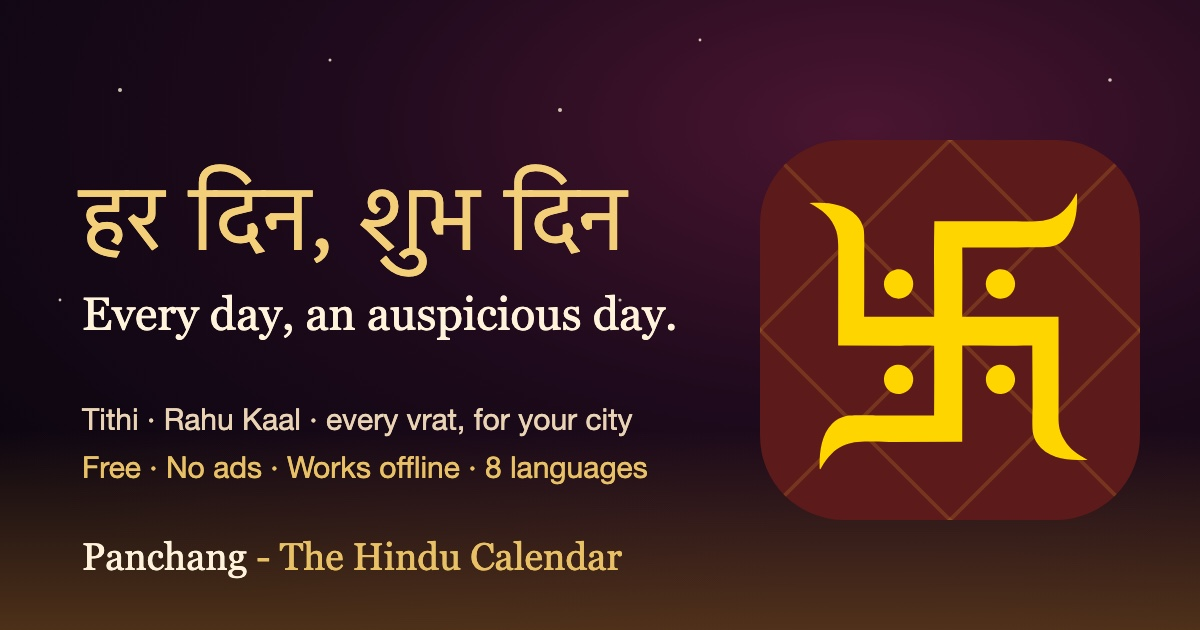
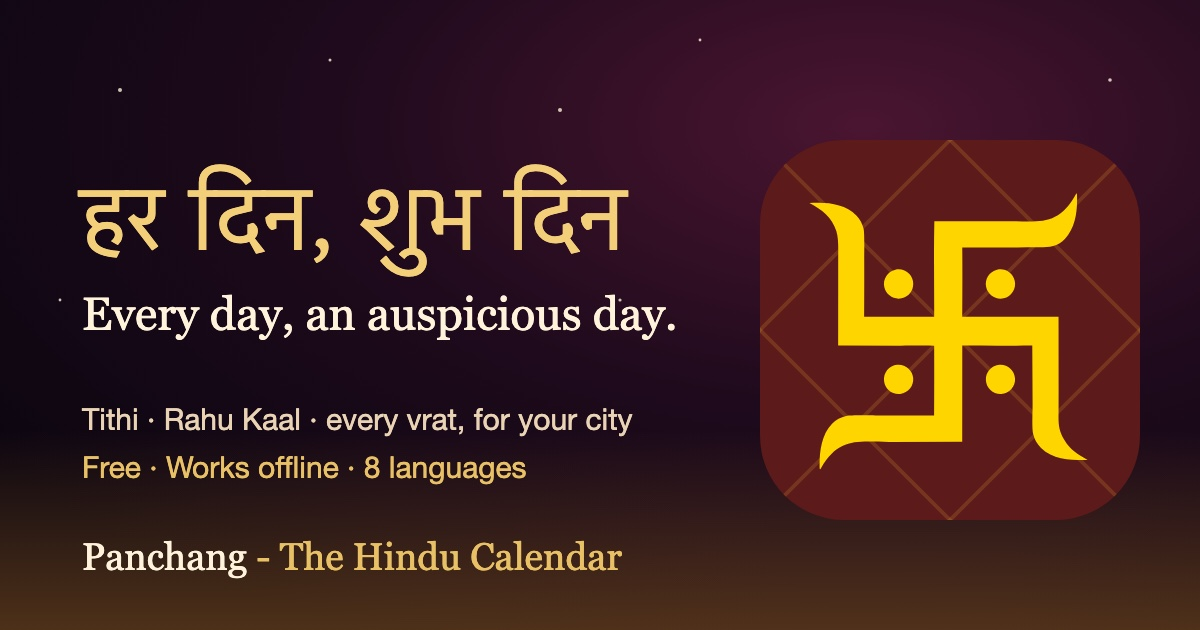
Ads disclosure: privacy policy Advertising section, light-ads copy, preview image

Changed region(s): [[0.1233, 0.7238, 0.555, 0.7841]]

diff --git a/index.html b/index.html
@@ -5,17 +5,17 @@
 <link rel="icon" href="assets/icon.svg" type="image/svg+xml">
 <title>Panchang - The Hindu Calendar</title>
 <meta name="claude:viewport-fit-sides" content="cover">
-<meta name="description" content="Tithi, nakshatra, Rahu Kaal and every vrat, worked out for your city each morning. Free, no ads, works offline, in 8 Indian languages.">
+<meta name="description" content="Tithi, nakshatra, Rahu Kaal and every vrat, worked out for your city each morning. Free, works offline, in 8 Indian languages.">
 <meta property="og:type" content="website">
 <meta property="og:title" content="Panchang - The Hindu Calendar">
-<meta property="og:description" content="हर दिन, शुभ दिन · Every day, an auspicious day. Tithi, Rahu Kaal and every vrat for your city. Free, no ads, works offline.">
+<meta property="og:description" content="हर दिन, शुभ दिन · Every day, an auspicious day. Tithi, Rahu Kaal and every vrat for your city. Free and works offline.">
 <meta property="og:url" content="https://hinducalendar.github.io">
 <meta property="og:image" content="https://hinducalendar.github.io/assets/og.jpg">
 <meta property="og:image:width" content="1200">
 <meta property="og:image:height" content="630">
 <meta name="twitter:card" content="summary_large_image">
 <meta name="twitter:title" content="Panchang - The Hindu Calendar">
-<meta name="twitter:description" content="Tithi, Rahu Kaal and every vrat for your city. Free, no ads, works offline.">
+<meta name="twitter:description" content="Tithi, Rahu Kaal and every vrat for your city. Free and works offline.">
 <meta name="twitter:image" content="https://hinducalendar.github.io/assets/og.jpg">
 <meta name="theme-color" content="#160A12">
 <link rel="preconnect" href="https://fonts.googleapis.com">
@@ -369,7 +369,7 @@ footer a { color: #F3E3CC; text-decoration-color: rgba(232,192,102,.5); text-und
           </a>
           <span class="soon"><svg viewBox="0 0 24 24" fill="none" stroke="currentColor" stroke-width="2" aria-hidden="true"><rect x="6" y="2.5" width="12" height="19" rx="2.5"/><path d="M10.5 18.5h3"/></svg><span data-i="soon">iPhone app coming soon</span></span>
         </div>
-        <p class="fine" data-i="fine">Free · No ads · No sign-up</p>
+        <p class="fine" data-i="fine">Free · No sign-up · Light ads you can remove</p>
       </div>
 
       <aside class="live" id="live" aria-labelledby="live-label">
@@ -467,7 +467,7 @@ footer a { color: #F3E3CC; text-decoration-color: rgba(232,192,102,.5); text-und
       <div class="trust">
       <ul>
         <li><span class="ic" aria-hidden="true"><svg viewBox="0 0 24 24" fill="none" stroke="currentColor" stroke-width="1.8" stroke-linecap="round" stroke-linejoin="round"><rect x="3.5" y="8" width="17" height="4.5" rx="1"/><path d="M5 12.5V20h14v-7.5M12 8v12"/><path d="M12 8C10.5 5 7 4.5 7 6.6 7 8 9.5 8 12 8zm0 0c1.5-3 5-3.5 5-1.4C17 8 14.5 8 12 8z"/></svg></span><span data-i="tr1">Free</span></li>
-        <li><span class="ic" aria-hidden="true"><svg viewBox="0 0 24 24" fill="none" stroke="currentColor" stroke-width="1.8" stroke-linecap="round" stroke-linejoin="round"><path d="M4 10v4h3l6 4V6l-6 4H4z"/><path d="M16.5 9.5a3.5 3.5 0 0 1 0 5"/><path d="M3 3l18 18"/></svg></span><span data-i="tr2">No ads</span></li>
+        <li><span class="ic" aria-hidden="true"><svg viewBox="0 0 24 24" fill="none" stroke="currentColor" stroke-width="1.8" stroke-linecap="round" stroke-linejoin="round"><path d="M4 10v4h3l6 4V6l-6 4H4z"/><path d="M16.5 9.5a3.5 3.5 0 0 1 0 5"/></svg></span><span data-i="tr2">Light, family-safe ads</span></li>
         <li><span class="ic" aria-hidden="true"><svg viewBox="0 0 24 24" fill="none" stroke="currentColor" stroke-width="1.8" stroke-linecap="round" stroke-linejoin="round"><circle cx="12" cy="8" r="3.5"/><path d="M5 20c.8-3.6 3.6-5.5 7-5.5s6.2 1.9 7 5.5"/><path d="M3 3l18 18"/></svg></span><span data-i="tr3">No sign-up</span></li>
         <li><span class="ic" aria-hidden="true"><svg viewBox="0 0 24 24" fill="none" stroke="currentColor" stroke-width="1.8" stroke-linecap="round" stroke-linejoin="round"><path d="M2.5 8.8a15 15 0 0 1 3.8-2.5M10.2 5.1A15 15 0 0 1 21.5 8.8M5.3 12.2a10 10 0 0 1 3.4-2M15.7 10.4A10 10 0 0 1 18.7 12.2M8.6 15.6a5 5 0 0 1 6.8 0"/><circle cx="12" cy="19" r=".8" fill="currentColor"/><path d="M3 3l18 18"/></svg></span><span data-i="tr4">Works offline</span></li>
         <li><span class="ic" aria-hidden="true"><svg viewBox="0 0 24 24" fill="none" stroke="currentColor" stroke-width="1.8" stroke-linecap="round" stroke-linejoin="round"><rect x="6.5" y="2.5" width="11" height="19" rx="2.5"/><path d="M10.5 18.5h3"/><path d="M9.5 10.5l2 2 3.5-3.5"/></svg></span><span data-i="tr5">Calculated on your phone</span></li>
@@ -576,7 +576,7 @@ astronomy-engine/esm/astronomy.js:
       brand: 'Panchang', brandOther: 'The Hindu Calendar', install: 'Install',
       h1: 'Every day, an auspicious day.', h1Other: 'हर दिन, शुभ दिन',
       lead: 'Tithi, nakshatra, Rahu Kaal and every vrat, worked out for your city each morning, right on your phone.',
-      playT1: 'Get it on', soon: 'iPhone app coming soon', fine: 'Free · No ads · No sign-up',
+      playT1: 'Get it on', soon: 'iPhone app coming soon', fine: 'Free · No sign-up · Light ads you can remove',
       liveLabel: "Today's panchang for", sunrise: 'Sunrise', sunset: 'Sunset', rahu: 'Rahu Kaal', yama: 'Yamaganda', gulika: 'Gulika', goodChog: 'Good choghadiya',
       liveNote: 'Calculated in your browser, the same way the app does it on your phone.',
       monthNak: '{month} month · {nak} nakshatra',
@@ -598,7 +598,7 @@ astronomy-engine/esm/astronomy.js:
       gKicker: 'Also inside', gTitle: 'A calendar for the month, and a muhurat finder',
       g1Title: 'Every tithi of the month', g1Body: 'Each day shows its tithi. Vrats, Purnima and Amavasya are marked, and any date opens its full panchang.',
       g2Title: 'Shubh muhurat, by occasion', g2Body: 'Good dates for a wedding, griha pravesh, a new vehicle or property, naming and mundan, with the reason for each.',
-      tr1: 'Free', tr2: 'No ads', tr3: 'No sign-up', tr4: 'Works offline', tr5: 'Calculated on your phone', tr6: '8 languages',
+      tr1: 'Free', tr2: 'Light, family-safe ads', tr3: 'No sign-up', tr4: 'Works offline', tr5: 'Calculated on your phone', tr6: '8 languages',
       fKicker: 'Coming up', fTitle: 'The next vrats and festivals in {city}', fSub: 'Dates calculated for your city, the way the app shows them.',
       today: 'Today', tomorrow: 'Tomorrow', inDays: 'in {n} days',
       cTitle: 'Light the lamp. Begin the day.', cBody: 'Panchang is free on Android. The iPhone app is coming soon.',
@@ -614,7 +614,7 @@ astronomy-engine/esm/astronomy.js:
       brand: 'पंचांग', brandOther: 'हिंदू कैलेंडर', install: 'डाउनलोड',
       h1: 'हर दिन, शुभ दिन', h1Other: 'Every day, an auspicious day.',
       lead: 'तिथि, नक्षत्र, राहु काल और हर व्रत, आपके शहर के हिसाब से, रोज़ सुबह आपके फ़ोन पर।',
-      playT1: 'इसे पाएं', soon: 'iPhone ऐप जल्द आ रहा है', fine: 'मुफ़्त · कोई विज्ञापन नहीं · कोई साइन-अप नहीं',
+      playT1: 'इसे पाएं', soon: 'iPhone ऐप जल्द आ रहा है', fine: 'मुफ़्त · कोई साइन-अप नहीं · हल्के विज्ञापन, जिन्हें हटा सकते हैं',
       liveLabel: 'आज का पंचांग', sunrise: 'सूर्योदय', sunset: 'सूर्यास्त', rahu: 'राहु काल', yama: 'यमगंड', gulika: 'गुलिक', goodChog: 'शुभ चौघड़िया',
       liveNote: 'आपके ब्राउज़र में गणना की गई, ठीक वैसे ही जैसे ऐप आपके फ़ोन पर करता है।',
       monthNak: '{month} मास · {nak} नक्षत्र',
@@ -636,7 +636,7 @@ astronomy-engine/esm/astronomy.js:
       gKicker: 'और भी', gTitle: 'महीने का कैलेंडर और मुहूर्त खोजक',
       g1Title: 'महीने की हर तिथि', g1Body: 'हर दिन की तिथि लिखी है। व्रत, पूर्णिमा और अमावस्या पर निशान है, और किसी भी तारीख़ का पूरा पंचांग खुल जाता है।',
       g2Title: 'हर काम का शुभ मुहूर्त', g2Body: 'विवाह, गृह प्रवेश, नया वाहन या संपत्ति, नामकरण और मुंडन के लिए शुभ दिन, हर एक के कारण के साथ।',
-      tr1: 'मुफ़्त', tr2: 'कोई विज्ञापन नहीं', tr3: 'कोई साइन-अप नहीं', tr4: 'बिना इंटरनेट', tr5: 'गणना आपके फ़ोन पर', tr6: '8 भाषाएँ',
+      tr1: 'मुफ़्त', tr2: 'हल्के, पारिवारिक विज्ञापन', tr3: 'कोई साइन-अप नहीं', tr4: 'बिना इंटरनेट', tr5: 'गणना आपके फ़ोन पर', tr6: '8 भाषाएँ',
       fKicker: 'आगे आ रहे हैं', fTitle: '{city} में आने वाले व्रत और त्योहार', fSub: 'तारीख़ें आपके शहर के हिसाब से, जैसे ऐप में दिखती हैं।',
       today: 'आज', tomorrow: 'कल', inDays: '{n} दिन बाद',
       cTitle: 'दीप जलाइए, दिन शुरू कीजिए।', cBody: 'पंचांग Android पर मुफ़्त है। iPhone ऐप जल्द आ रहा है।',

diff --git a/privacy.html b/privacy.html
@@ -21,10 +21,10 @@
 <body>
 <main>
   <h1>Privacy Policy</h1>
-  <p class="meta">Panchang - The Hindu Calendar (Android app) · Last updated: 19 November 2026</p>
+  <p class="meta">Panchang - The Hindu Calendar (Android app) · Last updated: 23 November 2026</p>
   <div class="rule"></div>
 
-  <p>Panchang - The Hindu Calendar ("the app") shows the Hindu panchang — tithi, nakshatra, Rahu Kaal, muhurats, vrats and festivals — for the city you choose. All of it is calculated on your phone. There are no accounts and no sign-in, the app contains no advertising or analytics, and we do not run any servers that receive your data.</p>
+  <p>Panchang - The Hindu Calendar ("the app") shows the Hindu panchang — tithi, nakshatra, Rahu Kaal, muhurats, vrats and festivals — for the city you choose. All of it is calculated on your phone. There are no accounts and no sign-in, the app contains no analytics, and we do not run any servers that receive your data. The free version shows a few ads from Google AdMob, described below; you can remove them with a one-time purchase.</p>
 
   <h2>What stays on your phone</h2>
   <p>The app saves the following only on your device, so it can remember your choices. None of it is sent to us or anyone else:</p>
@@ -42,6 +42,17 @@
   <h2>Reminders</h2>
   <p>Reminders for the daily panchang, vrats, parana times and festivals are scheduled on your phone by Android. They do not use a push-notification server and no information leaves your device. You can turn them off in the app's Reminders screen or in your phone's notification settings.</p>
 
+  <h2>Advertising</h2>
+  <p>The free version shows a small number of ads, provided by Google AdMob. They appear as clearly labelled cards at the bottom of some screens and between months in the festival list. To show and measure these ads, Google's software in the app collects and sends to Google:</p>
+  <ul>
+    <li>Your device's advertising ID (a resettable ID you control in Android settings)</li>
+    <li>Device and app information such as phone model, Android version, language and app version</li>
+    <li>Approximate location derived from your IP address (not GPS)</li>
+    <li>How you interact with the ads, such as views and taps</li>
+  </ul>
+  <p>Google uses this to choose and measure ads, prevent fraud and limit how often you see the same ad, under <a href="https://policies.google.com/technologies/partner-sites">Google's privacy policy</a>. We do not receive any of it except anonymous totals such as how many ads were shown. Ads are limited to content suitable for a general audience (rating G).</p>
+  <p>Your choices: in regions where the law requires it, the app asks for your consent before showing personalised ads. On Android you can reset or delete your advertising ID, or opt out of ad personalisation, in Settings → Google → Ads (or Settings → Privacy → Ads). Buying "Remove ads" in the app turns ads off; Google's ad software then no longer loads.</p>
+
   <h2>Crash reports</h2>
   <p>If the app crashes, Google Play may send us an anonymous crash report (Android vitals) if you have allowed your device to share usage and diagnostics data with Google. These reports contain technical details about the crash and your device model, not your personal information.</p>
 
@@ -50,6 +61,7 @@
     <tr><th>Data</th><th>Who receives it</th><th>Purpose</th></tr>
     <tr><td>Language, city, display and reminder settings, rashi</td><td>Nobody (stays on your phone)</td><td>Remembering your choices</td></tr>
     <tr><td>Approximate location (only if you tap "Find my location")</td><td>Nobody (used once on your phone, not saved)</td><td>Choosing the nearest city</td></tr>
+    <tr><td>Advertising ID, device and app info, approximate location from IP, ad interactions (free version only)</td><td>Google (AdMob)</td><td>Showing and measuring ads, preventing fraud</td></tr>
     <tr><td>Crash diagnostics</td><td>Google Play (if you allow)</td><td>Fixing bugs</td></tr>
   </table>
 
@@ -57,7 +69,7 @@
   <p>The app is intended for a general audience and is not directed at children under 13. We do not knowingly collect personal information from children.</p>
 
   <h2>Changes</h2>
-  <p>If this policy changes — for example, if the app ever adds advertising or paid features — we will update this page and the date above before the change reaches the app.</p>
+  <p>If this policy changes, we will update this page and the date above before the change reaches the app.</p>
 
   <h2>Contact</h2>
   <p>Questions or concerns: <a href="mailto:sud_kan2004@yahoo.com">sud_kan2004@yahoo.com</a></p>
